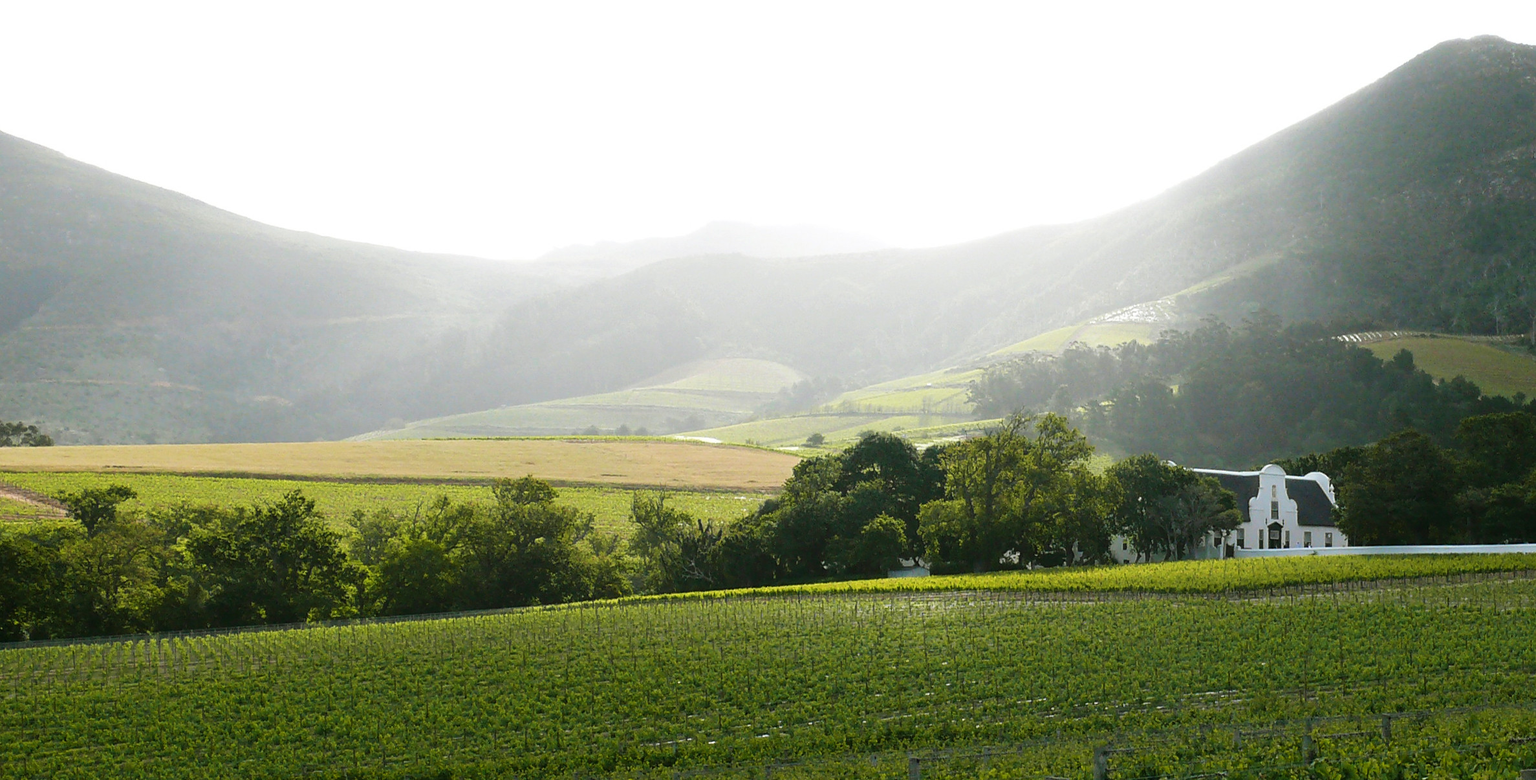
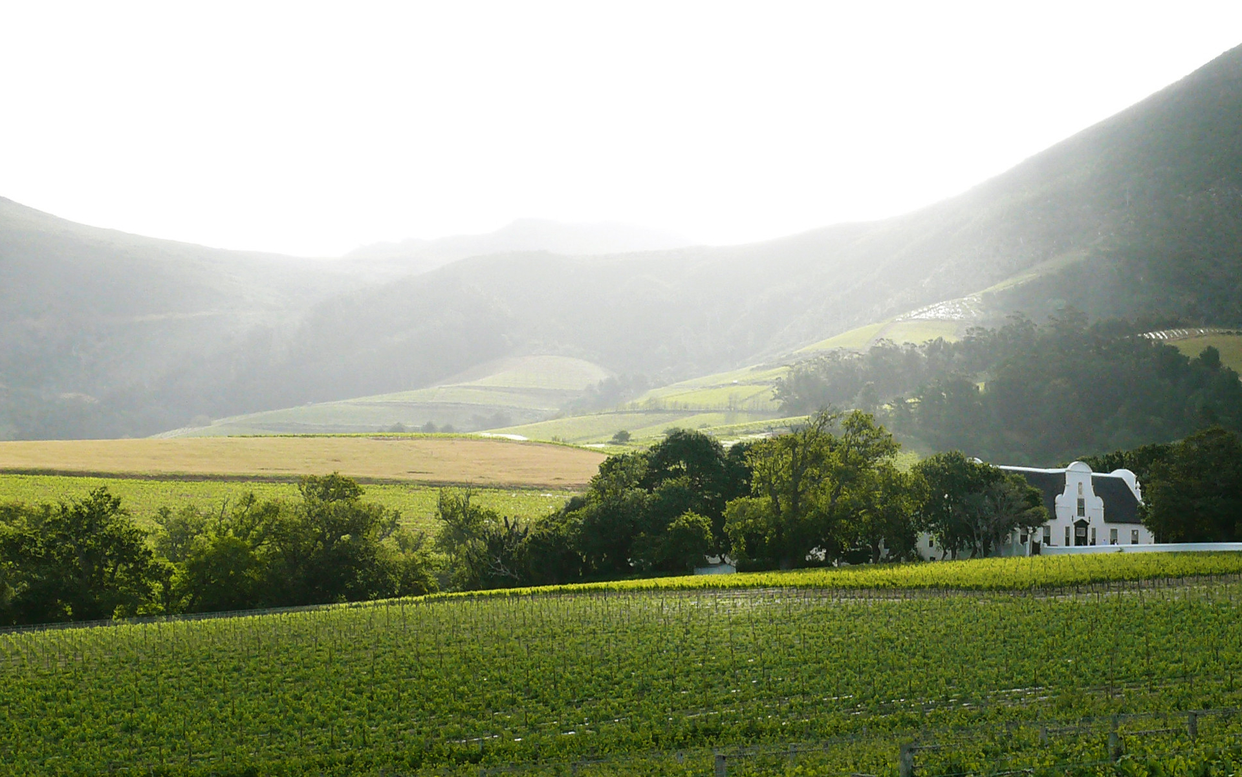
Cropped cover images for consistency

diff --git a/_includes/header.html b/_includes/header.html
@@ -2,7 +2,7 @@
     <div class="container">
         <div class="visible-md-block visible-lg-block row">
             <div class="col-sm-4">
-                <img class="logo img-responsive" src="{{ site.github.url }}/images/logo-cropped.png">
+                <a href="{{ site.github.url }}"><img class="logo img-responsive" src="{{ site.github.url }}/images/logo-cropped.png"></a>
             </div>
             <div class="col-sm-8">
                 <ul class="nav-links list-inline">
